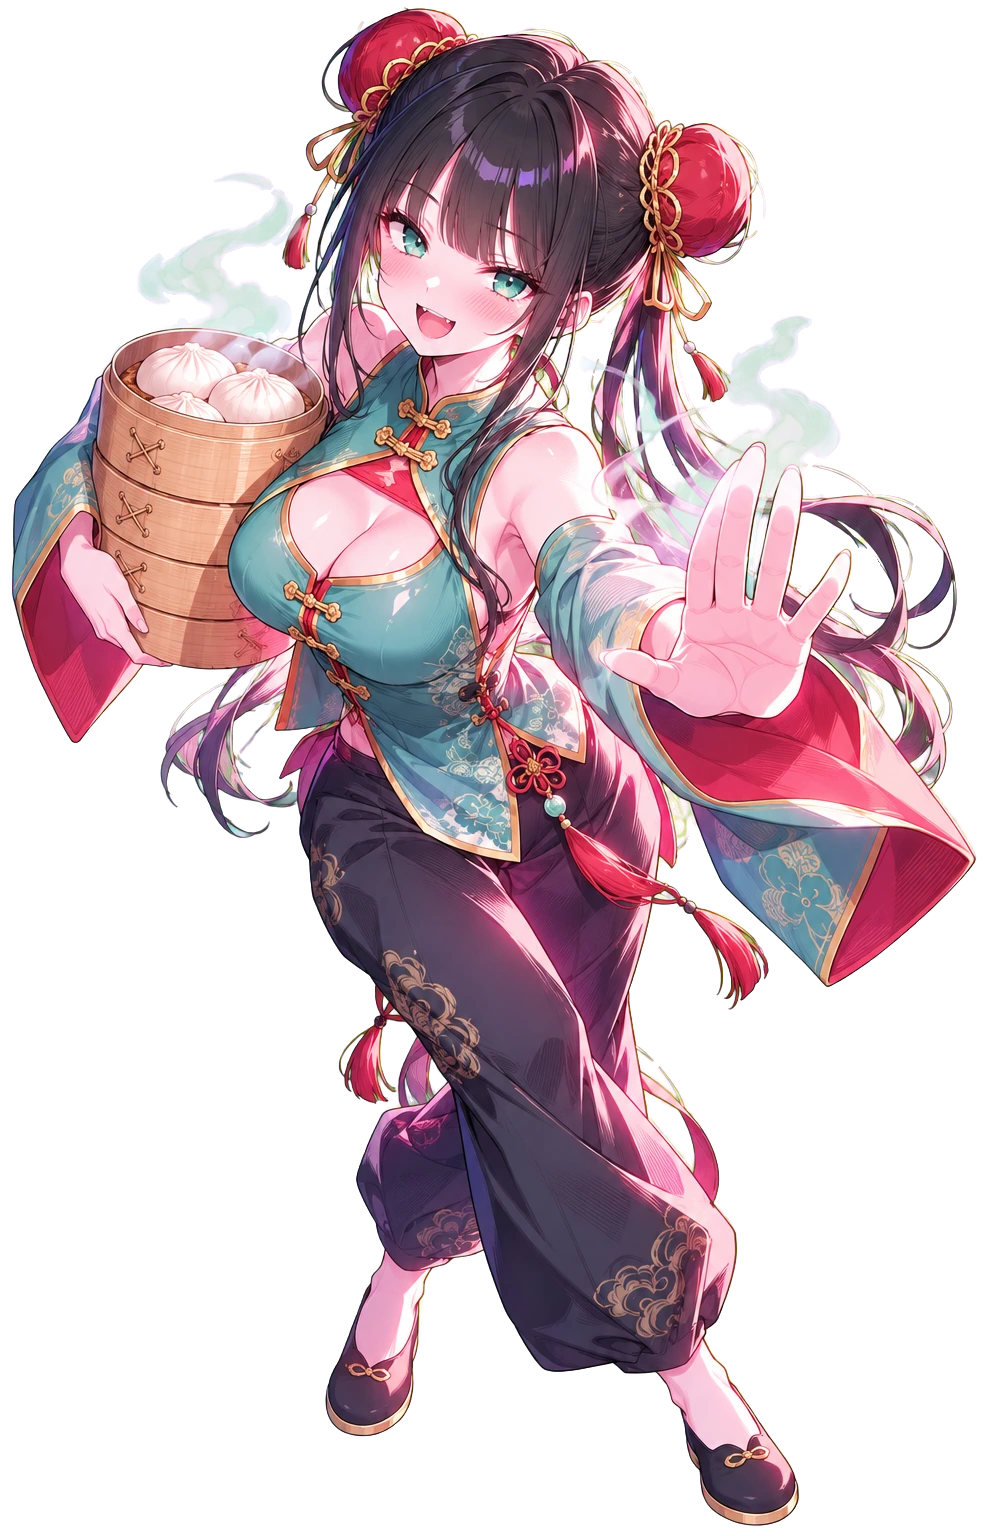
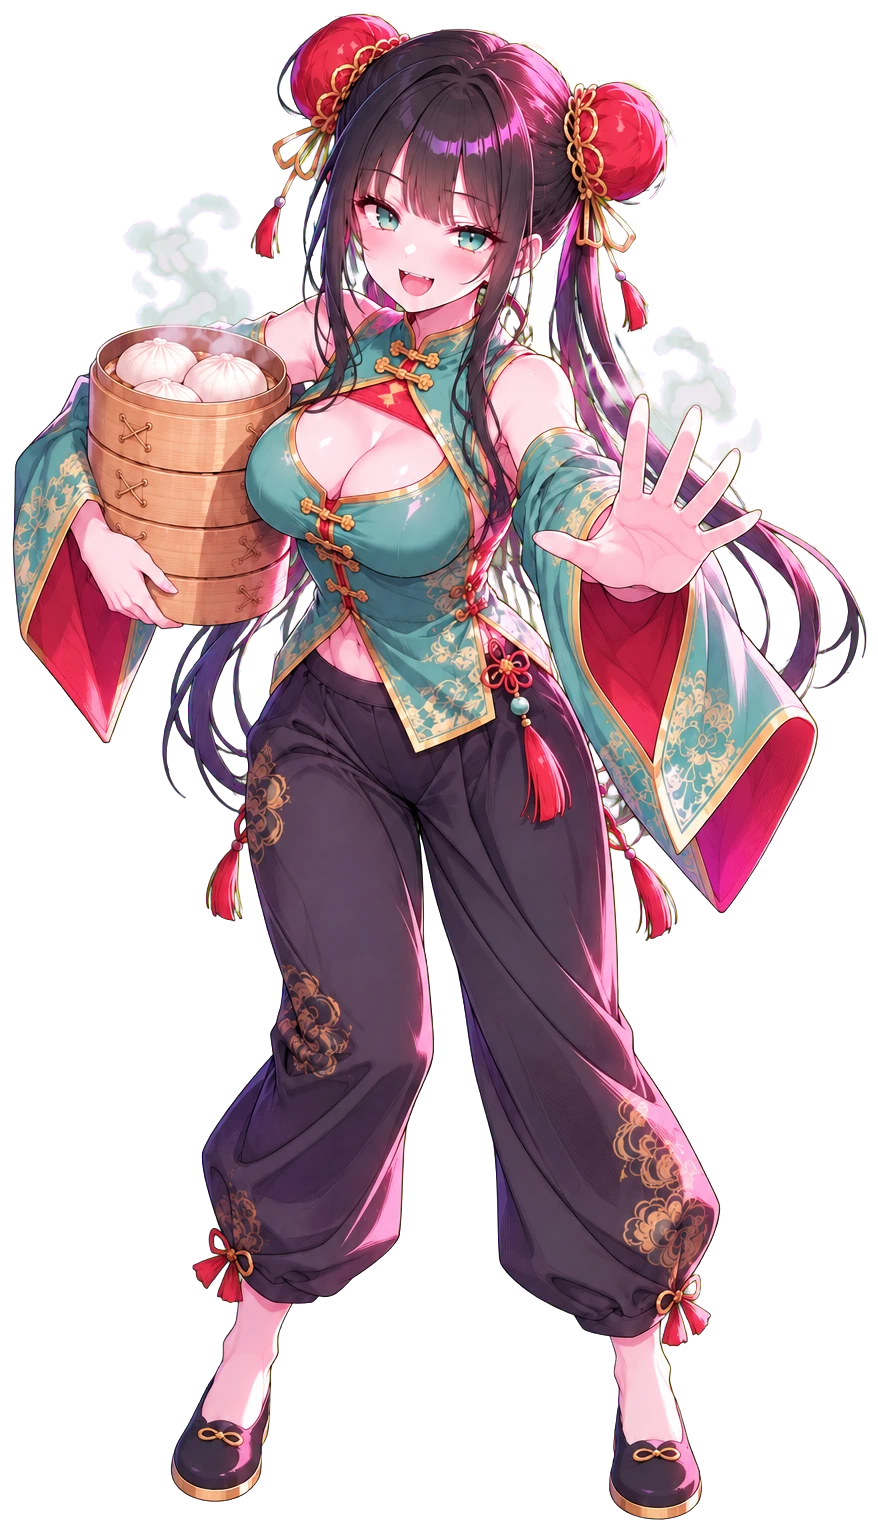
야구: 메이 전신 새 그림 (눈높이 정면 · 자연스러운 다리) — 키잉 스크립트에 전신만 갈기(-) 추가

diff --git a/web/scripts/baseball-char-art.py b/web/scripts/baseball-char-art.py
@@ -2,6 +2,7 @@
 야구 인연 캐릭터 그림 넣기 (초록 #00FF00 배경 → 투명)
   python3 scripts/baseball-char-art.py <id> <전신.png> <프로필.png> <대표색 #rrggbb> [얼굴 가운데 x 비율]
 출력: public/baseball/char/<id>.webp (전신, 투명, 여백 잘라냄) · <id>-face.webp (얼굴, 대표색 어두운 배경)
+  프로필 자리에 - 를 주면 전신만 갈아 끼움 (얼굴은 그대로)
 """
 import sys
 import numpy as np
@@ -42,6 +43,8 @@ x0, x1 = max(0, xs.min() - pad), min(al.shape[1], xs.max() + pad)
 im = Image.fromarray((np.dstack([rgb, al])[y0:y1, x0:x1] * 255).round().astype(np.uint8), "RGBA")
 im.save(OUT + cid + ".webp", quality=92, method=6)
 print("full", im.size)
+if prof == "-":
+    sys.exit(0)
 
 rgb, al = key(prof)
 H, W = al.shape
